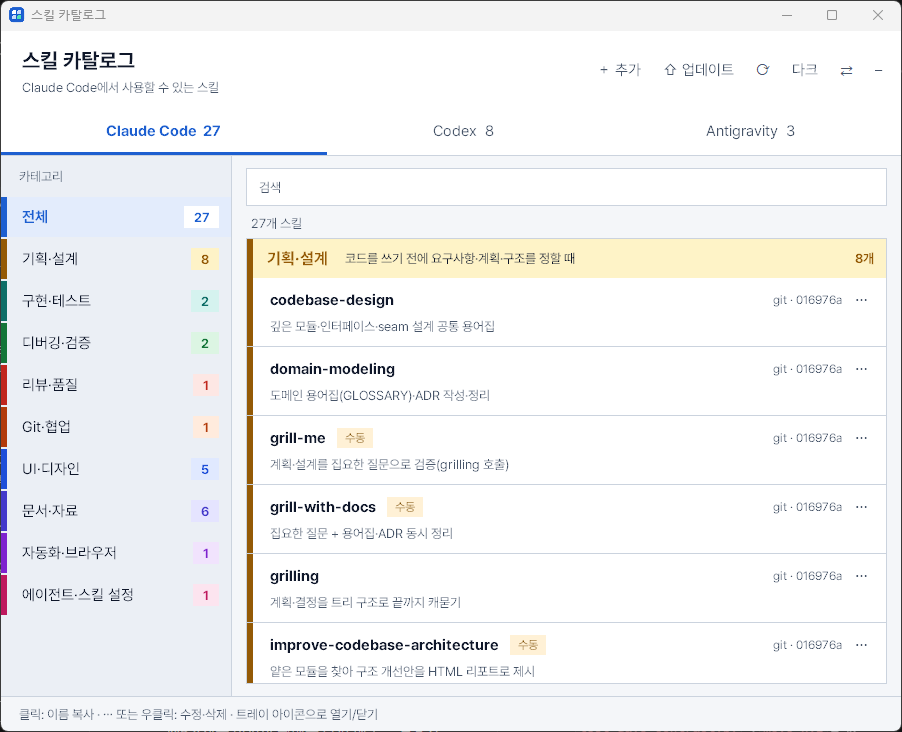
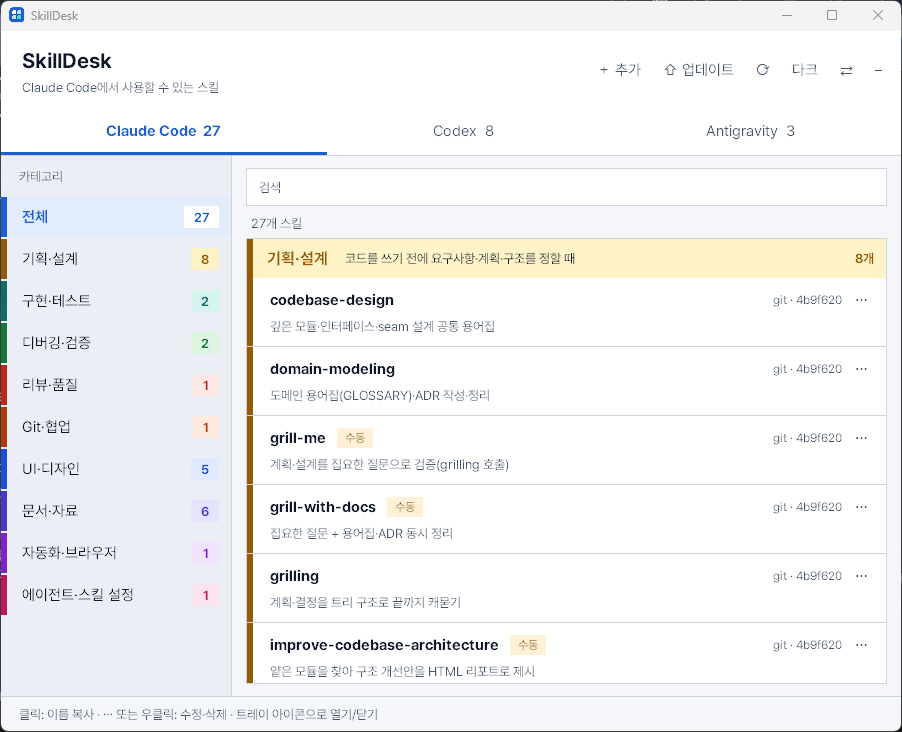
Chore: 앱 이름을 SkillDesk로 변경하고 영문 병기 제거
- 업무용 도구 느낌의 "SkillDesk" 하나로 통일하고 "스킬 카탈로그 (Skill Catalog)" 병기를 제거
- 창 제목, 헤더, 트레이 툴팁, 시작 메뉴 바로 가기, macOS 앱 이름, 중복 실행 방지 파일 이름과 README, 개발 가이드에 같은 이름 적용
- 영문 이름이라 시작 메뉴·Spotlight 검색어는 `SkillDesk`(또는 `skill`)이며, README 스크린샷을 새 이름으로 다시 촬영
- 창 제목과 설치 이름이 어긋나지 않도록 검사하는 테스트 추가

diff --git a/install.py b/install.py
@@ -5,7 +5,7 @@
   python install.py --uninstall  remove what this script created
   python install.py --dest DIR   write the shortcut / app into DIR instead (for testing)
 
-Search for "스킬 카탈로그" or "Skill Catalog". Nothing is copied: the entries point at this folder, so keep it where it is.
+Search for "SkillDesk". Nothing is copied: the entries point at this folder, so keep it where it is.
 """
 
 import argparse
@@ -21,7 +21,7 @@ from pathlib import Path
 import platform_support as plat
 
 HERE = Path(__file__).resolve().parent
-APP_NAME = "스킬 카탈로그 (Skill Catalog)"
+APP_NAME = "SkillDesk"
 BUNDLE_ID = "io.github.sgustjd2.skill-manage-viewer"
 MARKER = "# created by skill-manage-viewer install.py"  # only bundles carrying this are ever removed
 
@@ -33,10 +33,10 @@ def _ps_quote(text: str) -> str:
 def make_shortcut(lnk: Path, python: Path, args: str) -> None:
     """Windows .lnk via the WScript.Shell COM object (no extra packages).
 
-    WScript.Shell saves through the ANSI code page, so on a non-Korean Windows the Korean file name becomes '??' and
-    saving fails. It writes an ASCII-named file, which Python then renames.
+    WScript.Shell saves through the ANSI code page, so a path with characters outside it (a Korean user name on an
+    English Windows) fails. It writes an ASCII-named file next to the target, which Python then renames.
     """
-    ascii_lnk = lnk.with_name(f"skill-catalog-{os.getpid()}.lnk")
+    ascii_lnk = lnk.with_name(f"skilldesk-{os.getpid()}.lnk")
     script = "\n".join(
         [
             f"$s = (New-Object -ComObject WScript.Shell).CreateShortcut({_ps_quote(str(ascii_lnk))})",
@@ -44,7 +44,7 @@ def make_shortcut(lnk: Path, python: Path, args: str) -> None:
             f"$s.Arguments = {_ps_quote(args)}",
             f"$s.WorkingDirectory = {_ps_quote(str(HERE))}",
             f"$s.IconLocation = {_ps_quote(str(HERE / 'skill_viewer.ico'))}",
-            "$s.Description = 'Skill Catalog'",
+            "$s.Description = 'SkillDesk'",
             "$s.Save()",
         ]
     )
@@ -81,8 +81,8 @@ def install_mac(apps: Path, launch_agents: Path | None, startup: bool, python: P
     (app / "Contents/MacOS").mkdir(parents=True, exist_ok=True)
     (app / "Contents/Resources").mkdir(parents=True, exist_ok=True)
     plist = {
-        "CFBundleName": "Skill Catalog",
-        "CFBundleDisplayName": "스킬 카탈로그",
+        "CFBundleName": "SkillDesk",
+        "CFBundleDisplayName": "SkillDesk",
         "CFBundleIdentifier": BUNDLE_ID,
         "CFBundleExecutable": "launcher",
         "CFBundleIconFile": "AppIcon",
@@ -160,7 +160,7 @@ def main(argv: list[str]) -> int:
         )
     for p in made:
         print("created", p)
-    print('이제 검색창(Windows 시작 / macOS Spotlight)에 "스킬 카탈로그" 또는 "Skill Catalog"를 입력하세요.')
+    print('이제 검색창(Windows 시작 / macOS Spotlight)에 "SkillDesk"를 입력하세요.')
     return 0
 
 

diff --git a/skill_viewer.py b/skill_viewer.py
@@ -1,4 +1,4 @@
-"""Skill catalog panel: lists the skills each agent (Claude Code / Codex / Antigravity) can use, grouped by
+"""SkillDesk: lists the skills each agent (Claude Code / Codex / Antigravity) can use, grouped by
 category (category rail on the left, skills on the right), and installs / updates / edits / deletes them.
 Lives in an always-on-top corner window that is opened and closed from a tray icon.
 
@@ -217,7 +217,7 @@ def tray_menu(put):
 def tray_child() -> None:
     """macOS only: show the menu-bar icon and print the command of each click; exit when the app closes our stdin."""
     import pystray
-    icon = pystray.Icon("skill_viewer", icon_image(64), "스킬 카탈로그", tray_menu(lambda cmd: print(cmd, flush=True)))
+    icon = pystray.Icon("skill_viewer", icon_image(64), "SkillDesk", tray_menu(lambda cmd: print(cmd, flush=True)))
     threading.Thread(target=lambda: (sys.stdin.read(), icon.stop()), daemon=True).start()
     icon.run()
 
@@ -251,7 +251,7 @@ class App:
         plat.dpi_aware()
         load_bundled_fonts()  # before Tk starts listing fonts
         self.root = root = tk.Tk()
-        root.title("스킬 카탈로그")
+        root.title("SkillDesk")
         from PIL import ImageTk
         self._icon = ImageTk.PhotoImage(icon_image(64))  # keep a reference or Tk drops it
         root.iconphoto(True, self._icon)  # pyright: ignore[reportArgumentType]
@@ -384,7 +384,7 @@ class App:
         header.pack(fill="x")
         titles = tk.Frame(header, bg=c["surface"])
         titles.pack(side="left", padx=(18, 0), pady=(14, 12))
-        self._label(titles, "스킬 카탈로그", 16, bold=True).pack(anchor="w")
+        self._label(titles, "SkillDesk", 16, bold=True).pack(anchor="w")
         self.subtitle = self._label(titles, "", 10, fg=c["muted"])
         self.subtitle.pack(anchor="w")
         actions = tk.Frame(header, bg=c["surface"])
@@ -770,7 +770,7 @@ class App:
             return
         import pystray
         # tray callbacks run on pystray's thread; the Tk thread drains the queue
-        self.tray = pystray.Icon("skill_viewer", icon_image(64), "스킬 카탈로그", tray_menu(self.events.put))
+        self.tray = pystray.Icon("skill_viewer", icon_image(64), "SkillDesk", tray_menu(self.events.put))
         self.tray.run_detached()
 
     def _read_tray(self) -> None:

diff --git a/test_install.py b/test_install.py
@@ -22,9 +22,9 @@ class MacBundle(unittest.TestCase):
             py = Path("/usr/local/bin/python3")  # str(py) uses backslashes when this runs on Windows
             made = install.install_mac(t / "Applications", t / "LaunchAgents", True, py)
             app = made[0]
-            self.assertEqual(app.name, "스킬 카탈로그 (Skill Catalog).app")
+            self.assertEqual(app.name, "SkillDesk.app")
             info = plistlib.loads((app / "Contents/Info.plist").read_bytes())
-            self.assertEqual((info["CFBundleExecutable"], info["CFBundleDisplayName"]), ("launcher", "스킬 카탈로그"))
+            self.assertEqual((info["CFBundleExecutable"], info["CFBundleDisplayName"]), ("launcher", "SkillDesk"))
             launcher = (app / "Contents/MacOS/launcher").read_text(encoding="utf-8")
             self.assertTrue(launcher.startswith("#!/bin/bash\n"))
             self.assertIn(f'cd "{install.HERE}"', launcher)
@@ -71,7 +71,7 @@ class WindowsShortcut(unittest.TestCase):
         with tempfile.TemporaryDirectory() as t:
             programs = Path(t) / "Programs"
             made = install.install_windows(programs, True, Path(sys.executable))
-            self.assertEqual([p.name for p in made], ["스킬 카탈로그 (Skill Catalog).lnk"] * 2)
+            self.assertEqual([p.name for p in made], ["SkillDesk.lnk"] * 2)
             menu, startup = (self.read(p) for p in made)
             self.assertTrue(menu["TargetPath"].lower().endswith("pythonw.exe"))  # no console window
             self.assertEqual(menu["Arguments"], f'"{install.HERE / "skill_viewer.py"}"')
@@ -85,9 +85,9 @@ class WindowsShortcut(unittest.TestCase):
     def test_cli_with_dest(self):
         with tempfile.TemporaryDirectory() as t:
             self.assertEqual(install.main(["--dest", t]), 0)
-            self.assertTrue((Path(t) / "스킬 카탈로그 (Skill Catalog).lnk").is_file())
+            self.assertTrue((Path(t) / "SkillDesk.lnk").is_file())
             self.assertEqual(install.main(["--dest", t, "--uninstall"]), 0)
-            self.assertFalse((Path(t) / "스킬 카탈로그 (Skill Catalog).lnk").exists())
+            self.assertFalse((Path(t) / "SkillDesk.lnk").exists())
 
 
 if __name__ == "__main__":

diff --git a/test_viewer.py b/test_viewer.py
@@ -18,6 +18,7 @@ from unittest import mock
 
 from PIL import ImageGrab
 
+import install
 import platform_support as plat
 import skill_manager as mgr
 import skill_viewer as v
@@ -137,6 +138,11 @@ class PanelTest(unittest.TestCase):
         app.events.put("toggle")
         app._pump()
         self.assertTrue(app.visible and app.root.state() == "normal")
+
+    def test_app_name_is_the_same_everywhere(self):
+        app = self.app
+        self.assertEqual(app.root.title(), install.APP_NAME)  # window title = Start menu / Spotlight name
+        self.assertIn(install.APP_NAME, texts(app.root))  # header
 
     def test_02_origin_labels(self):
         legacy = find(self.app, "Codex", "legacy")

diff --git a/platform_support.py b/platform_support.py
@@ -117,7 +117,7 @@ def register_font(path: Path) -> bool:
 _lock_file = None  # keeps the lock for the life of the process
 
 
-def already_running(name: str = "skill-catalog") -> bool:
+def already_running(name: str = "skilldesk") -> bool:
     """True if another copy of the app holds the lock. The OS drops the lock when that process dies."""
     global _lock_file
     f = open(Path(tempfile.gettempdir()) / f"{name}.lock", "a+b")  # noqa: SIM115 - must stay open

diff --git a/README.md b/README.md
@@ -1,11 +1,11 @@
-# 스킬 카탈로그 (skill-manage-viewer)
+# SkillDesk
 
 [![CI](https://github.com/sgustjd2/skill-manage-viewer/actions/workflows/ci.yml/badge.svg)](https://github.com/sgustjd2/skill-manage-viewer/actions/workflows/ci.yml)
 
 내 PC에 설치된 **AI 에이전트 스킬**(Claude Code · Codex · Antigravity)을 한 화면에서 보고, 설치·업데이트·수정·삭제까지 하는 **Windows·macOS** 프로그램입니다.
 작은 창이 화면 모서리에 떠 있고, 트레이(macOS는 메뉴 막대) 아이콘으로 열고 닫습니다.
 
-![스킬 카탈로그 기본 화면](docs/images/main.png)
+![SkillDesk 기본 화면](docs/images/main.png)
 
 > 스크린샷은 Windows에서 예시 스킬로 찍은 것입니다. macOS도 화면 구성은 같습니다.
 
@@ -57,7 +57,7 @@ python3 install.py
 ```
 
 1. `start.bat` / `start.command`: 필요한 패키지가 없으면 설치하고 앱을 띄웁니다.
-2. `install.py`: 앞으로 **시작 메뉴(Windows) / Spotlight(macOS)** 에서 `스킬 카탈로그` 또는 `Skill Catalog`로 검색해 켤 수 있게 등록합니다.
+2. `install.py`: 앞으로 **시작 메뉴(Windows) / Spotlight(macOS)** 에서 `SkillDesk`로 검색해 켤 수 있게 등록합니다.
 
 ## 자세한 설치 방법
 
@@ -119,8 +119,8 @@ python install.py          # macOS는 python3 install.py
 
 | | 검색하는 곳 | 검색어 | 만들어지는 것 |
 |---|---|---|---|
-| Windows | 시작 메뉴 | `스킬 카탈로그` 또는 `Skill Catalog` | 시작 메뉴 바로 가기 |
-| macOS | Spotlight (`⌘ + Space`) | `스킬 카탈로그` 또는 `Skill Catalog` | `~/Applications/스킬 카탈로그 (Skill Catalog).app` |
+| Windows | 시작 메뉴 | `SkillDesk` (또는 `skill`) | 시작 메뉴 바로 가기 |
+| macOS | Spotlight (`⌘ + Space`) | `SkillDesk` (또는 `skill`) | `~/Applications/SkillDesk.app` |
 
 추가 옵션:
 

diff --git a/docs/DEVELOPMENT.md b/docs/DEVELOPMENT.md
@@ -1,6 +1,6 @@
 # 개발 가이드
 
-스킬 카탈로그를 고치거나 기능을 더하려는 사람을 위한 문서입니다. 사용 방법은 [README](../README.md)를 보세요.
+SkillDesk를 고치거나 기능을 더하려는 사람을 위한 문서입니다. 사용 방법은 [README](../README.md)를 보세요.
 
 ## 목차
 
